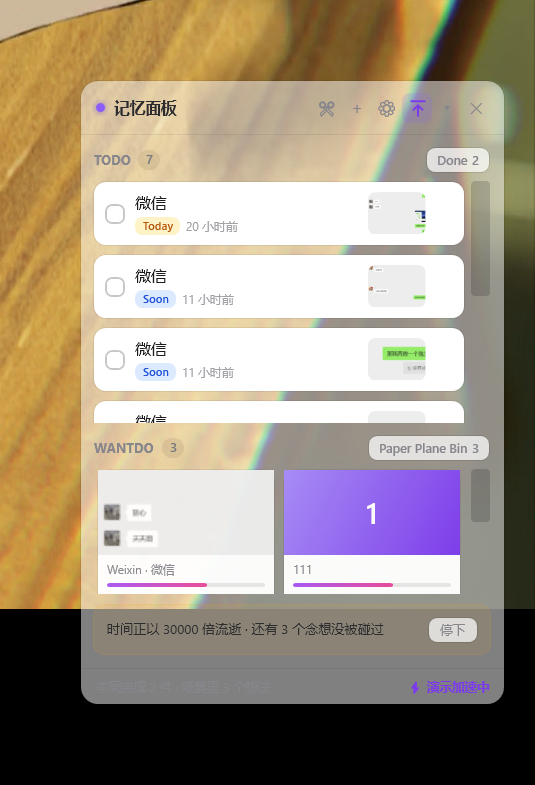
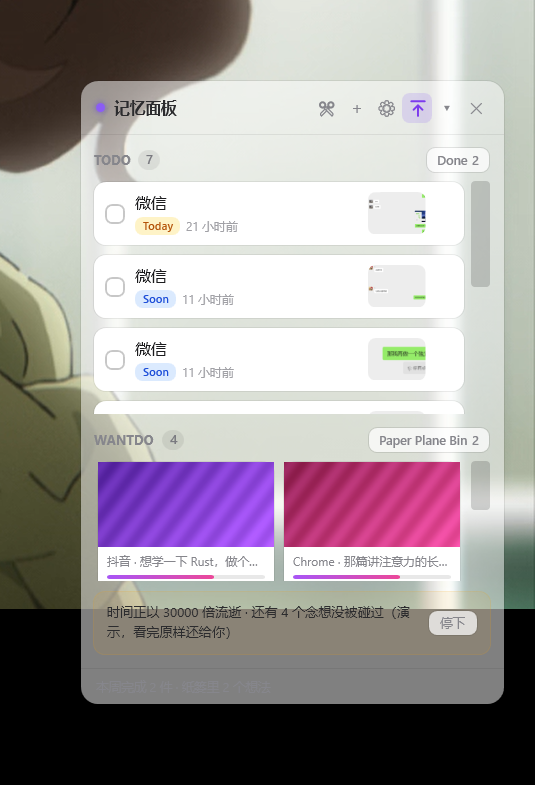
演示加速改成纯预览：看完原样还原；第一次点会替你把 WantDo 全都注意一遍
两件事：

1. **纯预览，零副作用。** 演示期间真的会进纸篓，但跑完（或中途「停下」）
   数据原样写回。
   还原不是逐条逆转 binCount / binStints 那些记账（漏一个就留疤），
   而是开演前把每条待褪色的条目**整个深拷贝一份**，结束时把变过的原样写回。

2. **第一次的小心思。** 第一次点会先把所有 active Wantdo 的生命复原
   （就当我都替你看过一遍了），标语「这次我帮你把 WantDo 全都注意了一遍噢~ 下不为例~」；
   以后不再复原生命，按原有生命值跑，标语「这次不会帮你了噢~」。
   两句都跟一句「希望梦想不再褪色，就好好注意它噢~」。
   用 settings.demoRunCount 记第几次。

   生命复原只动 lastTouchedAt，**不动 touchCount / viewCount** —— 那两个是
   「你真的看过它几次」的记录，替用户"注意一遍"不该往里面灌水，
   不然完成记录里会出现一看就是假的数字。

   备份点放在生命复原**之后** —— 复原是要留下的，还原不能把它也抹掉。

实测连跑两轮（4 条 active 念想）：

  原样 -> 第1轮后：4 条生命被复原成同一时刻；binCount 仍 0、binnedAt 仍 0、
                  touches 未变；原本就在纸篓那条完全没被碰
  第1轮后 -> 第2轮后：**逐字节完全一致**（第二轮没留任何痕迹）

  第1轮：t=30s 最淡 0.81 -> t=60s 最淡 0.23，约 63s 全部掉进纸篓后自动结束并还原

diff --git a/native/src/ViewModels.cs b/native/src/ViewModels.cs
@@ -740,11 +740,16 @@ namespace RemeberEr
 
         // ---------------- 演示加速 ----------------
         //
-        // 「试试让时间以 N 倍流逝」是一次**有始有终的演示**，不是个开关：
+        // 「试试让时间以 N 倍流逝」是一次**有始有终、而且不留痕迹**的演示：
         // 点一下开始，画面每秒重算一次（看得到磁贴真的在褪色），
-        // 等所有还在的 Wantdo 都掉进纸篓，就自动结束并留一句话。
+        // 等所有还在的 Wantdo 都掉进纸篓，自动结束、**把数据原样还给你**，留一句话。
+        //
+        // 还原的做法不是逐条逆转 binCount / binStints 这些记账（漏一个就留疤），
+        // 而是**开演前把每条待褪色的条目整个深拷贝一份，结束时原样写回**。
 
-        public const string DemoSlogan = "希望梦想不再褪色，就好好注意它噢~";
+        public const string DemoSloganMoral = "希望梦想不再褪色，就好好注意它噢~";
+        public const string DemoSloganFirst = "这次我帮你把 WantDo 全都注意了一遍噢~ 下不为例~";
+        public const string DemoSloganAgain = "这次不会帮你了噢~";
 
         /// <summary>演示正常跑完了（不是被手动停下的）。</summary>
         bool _demoFinished;
@@ -758,8 +763,19 @@ namespace RemeberEr
             }
         }
 
+        /// <summary>这一轮是不是「第一次」—— 第一次会顺手把所有 Wantdo 的生命复原。</summary>
+        bool _demoWasFirst;
+        public bool DemoWasFirst
+        {
+            get { return _demoWasFirst; }
+            set { Set(ref _demoWasFirst, value, "DemoWasFirst"); }
+        }
+
         /// <summary>开演的时候还剩几条念想 —— 用来判断「跑完了」。</summary>
         int _demoWantsAtStart;
+
+        /// <summary>演示开始前的条目快照（深拷贝），结束或手动停下时原样写回。</summary>
+        List<Dictionary<string, object>> _demoBackup;
 
         public bool ShowDemoBanner { get { return _demoOn || _demoFinished; } }
 
@@ -767,9 +783,14 @@ namespace RemeberEr
         {
             get
             {
-                if (_demoFinished) return DemoSlogan;
-                if (NDemoLeft <= 0) return string.Format("时间正以 {0} 倍流逝…", (int)Decay.DEMO_TIME_SCALE);
-                return string.Format("时间正以 {0} 倍流逝 · 还有 {1} 个念想没被碰过",
+                if (_demoFinished)
+                {
+                    var line = _demoWasFirst ? DemoSloganFirst : DemoSloganAgain;
+                    return line + "\n" + DemoSloganMoral;
+                }
+                if (NDemoLeft <= 0)
+                    return string.Format("时间正以 {0} 倍流逝…（演示，看完原样还给你）", (int)Decay.DEMO_TIME_SCALE);
+                return string.Format("时间正以 {0} 倍流逝 · 还有 {1} 个念想没被碰过（演示，看完原样还给你）",
                     (int)Decay.DEMO_TIME_SCALE, NDemoLeft);
             }
         }
@@ -785,7 +806,29 @@ namespace RemeberEr
         public void StartDemo()
         {
             _demoFinished = false;
+
+            // 第一次点：把所有还在的 Wantdo 生命复原（就当我都替你看过一遍了）
+            int runs = (int)J.Num(_store.Settings, "demoRunCount", 0);
+            _demoWasFirst = runs == 0;
+            _store.SetSetting("demoRunCount", (double)(runs + 1));
+            if (_demoWasFirst)
+            {
+                int n = _store.RefreshAllWantsLife();
+                Program.Log("  第一次演示：先把 " + n + " 条念想的生命复原（我帮你都注意了一遍）");
+            }
+
             _demoWantsAtStart = NWant;
+
+            // 备份放在「生命复原」之后 —— 复原是要留下的，还原不能把它也抹掉
+            _demoBackup = new List<Dictionary<string, object>>();
+            foreach (var o in _store.Items)
+            {
+                var it = J.Obj(o);
+                if (J.Str(it, "room", "") != "want") continue;
+                if (J.Str(it, "state", "") != "active") continue;
+                _demoBackup.Add((Dictionary<string, object>)Json.Parse(Json.Stringify(it)));
+            }
+
             // 记下起跑时刻：倍率只作用于**这一刻之后**流逝的时间，
             // 否则一条一小时前放下的念想会在点击瞬间就变成 3.4 年年龄，直接被清空。
             _store.SetSetting("demoStartedAt", (double)Store.RealNow());
@@ -793,34 +836,61 @@ namespace RemeberEr
             // 切回主视图 —— 站在设置页里是看不到磁贴在褪色的
             View = "main";
             Refresh();
-            Program.Log(string.Format("  演示加速开始：倍率 {0}，当前想褪色的有 {1} 条",
-                (int)Decay.DEMO_TIME_SCALE, _demoWantsAtStart));
+            Program.Log(string.Format("  演示加速开始：倍率 {0}，待褪色 {1} 条，第一次={2}",
+                (int)Decay.DEMO_TIME_SCALE, _demoWantsAtStart, _demoWasFirst));
             Raise("ShowDemoBanner"); Raise("DemoBannerText");
-            if (_demoWantsAtStart == 0)
-            {
-                // 一条都没有就没什么可看的，直接把话说清楚
-                FinishDemo();
-            }
+            if (_demoWantsAtStart == 0) FinishDemo();   // 一条都没有就没什么可看的
         }
 
         public void StopDemo()
         {
+            RollbackDemo();
             _store.SetSetting("demoFastDecay", false);
-            _store.SetSetting("demoStartedAt", 0.0);   // 回到真实时间，年龄照旧算
+            _store.SetSetting("demoStartedAt", 0.0);
             _demoFinished = false;
             Refresh();
-            Program.Log("  演示加速已停下");
+            Program.Log("  演示加速已停下，数据已还原");
             Raise("ShowDemoBanner"); Raise("DemoBannerText");
         }
 
         void FinishDemo()
         {
+            RollbackDemo();
             _store.SetSetting("demoFastDecay", false);
             _store.SetSetting("demoStartedAt", 0.0);
             _demoFinished = true;
             Refresh();
-            Program.Log("  演示加速跑完 -> 出标语");
+            Program.Log("  演示跑完，数据已还原 -> 标语：" + (_demoWasFirst ? DemoSloganFirst : DemoSloganAgain));
             Raise("ShowDemoBanner"); Raise("DemoBannerText");
+        }
+
+        /// <summary>
+        /// 把演示动过的条目原样写回。
+        /// 只写回**真的被改动过**的（state 或 lastTouchedAt 变了），
+        /// 免得演示什么都没发生也要重写一遍数据文件。
+        /// </summary>
+        void RollbackDemo()
+        {
+            if (_demoBackup == null) return;
+            var items = _store.Items;
+            int n = 0;
+            foreach (var saved in _demoBackup)
+            {
+                string id = J.Str(saved, "id", "");
+                for (int i = 0; i < items.Count; i++)
+                {
+                    var cur = J.Obj(items[i]);
+                    if (J.Str(cur, "id", "") != id) continue;
+                    bool changed =
+                        J.Str(cur, "state", "") != J.Str(saved, "state", "") ||
+                        Math.Abs(J.Num(cur, "lastTouchedAt", 0) - J.Num(saved, "lastTouchedAt", 0)) > 0.5;
+                    if (changed) { items[i] = saved; n++; }
+                    break;
+                }
+            }
+            _demoBackup = null;
+            if (n > 0) _store.Save();
+            Program.Log("  演示回滚：还原了 " + n + " 条");
         }
 
         public void DismissDemo()

diff --git a/native/src/PanelWindow.xaml.cs b/native/src/PanelWindow.xaml.cs
@@ -152,42 +152,80 @@ namespace RemeberEr
             else if (Program.Flow == "accel") ScheduleFlowAccel();
         }
 
+        void DumpWants(string tag)
+        {
+            var sb = new System.Text.StringBuilder();
+            foreach (var o in _store.Items)
+            {
+                var it = J.Obj(o);
+                if (J.Str(it, "room", "") != "want") continue;
+                string id = J.Str(it, "id", "");
+                if (id.Length > 8) id = id.Substring(0, 8);
+                sb.AppendLine(string.Format("{0}  {1,-7} last={2:0}  binCount={3}  binnedAt={4}  touches={5}",
+                    id, J.Str(it, "state", ""), J.Num(it, "lastTouchedAt", 0),
+                    J.Num(it, "binCount", 0), J.Num(it, "binnedAt", 0), J.Num(it, "touchCount", 0)));
+            }
+            File.WriteAllText(Path.Combine(Program.Root, ".guide", "wants-" + tag + ".txt"),
+                sb.ToString(), new System.Text.UTF8Encoding(false));
+            Program.Log("  want 快照 -> .guide\\wants-" + tag + ".txt");
+        }
+
         /// <summary>
-        /// 验收演示加速：每秒记一次「还剩几条念想 / 纸篓里有几条 / 透明度」，
-        /// 确认它是**慢慢褪色**而不是点下去一次性清空，并且跑完会出标语。
+        /// 验收演示加速：连跑两轮，确认
+        ///   1. 第一轮会把所有 Wantdo 的生命复原，第二轮不会
+        ///   2. 每轮跑完数据都**原样还原**（状态、binCount、binnedAt 一个都不许变）
+        ///   3. 标语按第一次 / 以后分两种
         /// </summary>
         void ScheduleFlowAccel()
         {
             var steps = new List<Tuple<int, Action>>();
             steps.Add(Tuple.Create<int, Action>(600, () =>
             {
-                Program.Log(string.Format("  开始前：Wantdo {0} 条，纸篓 {1} 条",
-                    _vm.NWant, _vm.NBin));
+                Program.Log(string.Format("  【原样】Wantdo {0} 条，纸篓 {1} 条", _vm.NWant, _vm.NBin));
+                DumpWants("原样");
                 Shot("accel-00");
                 _vm.StartDemo();
             }));
 
+            // 第一轮：边跑边记，确认是「慢慢褪色」而不是一次性清空
             int last = 0;
-            for (int sec = 5; sec <= 90; sec += 5)
+            for (int sec = 10; sec <= 70; sec += 10)
             {
-                int delay = (sec - last) * 1000;
-                last = sec;
-                int at = sec;
+                int delay = (sec - last) * 1000; last = sec; int at = sec;
                 steps.Add(Tuple.Create<int, Action>(delay, () =>
                 {
                     double minOp = 1.0;
                     foreach (var w in _vm.Wants) if (w.Opacity < minOp) minOp = w.Opacity;
-                    Program.Log(string.Format(
-                        "    t={0,2}s  念想 {1} 条（最淡 {2:0.00}）· 纸篓 {3} 条 · 演示中={4} 已完成={5}",
-                        at, _vm.NWant, minOp, _vm.NBin, _vm.DemoOn, _vm.DemoFinished));
+                    Program.Log(string.Format("    第1轮 t={0,2}s  念想 {1} 条（最淡 {2:0.00}）· 纸篓 {3} 条 · 完成={4}",
+                        at, _vm.NWant, minOp, _vm.NBin, _vm.DemoFinished));
                     if (at == 20) Shot("accel-20");
                     if (at == 40) Shot("accel-40");
                 }));
             }
-            steps.Add(Tuple.Create<int, Action>(400, () =>
+            steps.Add(Tuple.Create<int, Action>(500, () =>
             {
-                Program.Log("  横幅文字 = " + _vm.DemoBannerText);
+                Program.Log("  【第1轮结束】标语 = " + _vm.DemoBannerText.Replace("\n", " / "));
+                DumpWants("第1轮后");
                 Shot("accel-done");
+                _vm.DismissDemo();
+                _vm.StartDemo();
+            }));
+
+            // 第二轮
+            last = 0;
+            for (int sec = 10; sec <= 70; sec += 10)
+            {
+                int delay = (sec - last) * 1000; last = sec; int at = sec;
+                steps.Add(Tuple.Create<int, Action>(delay, () =>
+                {
+                    Program.Log(string.Format("    第2轮 t={0,2}s  念想 {1} 条 · 纸篓 {2} 条 · 完成={3}",
+                        at, _vm.NWant, _vm.NBin, _vm.DemoFinished));
+                }));
+            }
+            steps.Add(Tuple.Create<int, Action>(500, () =>
+            {
+                Program.Log("  【第2轮结束】标语 = " + _vm.DemoBannerText.Replace("\n", " / "));
+                DumpWants("第2轮后");
                 Program.Log("  演示加速流程结束");
                 Close();
             }));

diff --git a/native/src/Store.cs b/native/src/Store.cs
@@ -309,6 +309,28 @@ namespace RemeberEr
             return it;
         }
 
+        /// <summary>
+        /// 把所有还在的 Wantdo 生命复原（lastTouchedAt = 现在）。
+        ///
+        /// 只动生命值，**不动 touchCount / viewCount** —— 那两个是「你真的看过它几次」的
+        /// 记录，替用户"注意一遍"不该往里面灌水，不然完成记录里会出现一看就是假的数字。
+        /// </summary>
+        public int RefreshAllWantsLife()
+        {
+            double now = Now();
+            int n = 0;
+            foreach (var o in Items)
+            {
+                var it = J.Obj(o);
+                if (J.Str(it, "room", "") != "want") continue;
+                if (J.Str(it, "state", "") != "active") continue;
+                it["lastTouchedAt"] = now;
+                n++;
+            }
+            if (n > 0) Save();
+            return n;
+        }
+
         public Dictionary<string, object> Done(string id, bool hasReflection, string reflection, bool file)
         {
             var it = Get(id);

diff --git a/README.md b/README.md
@@ -146,7 +146,7 @@ powershell -File native\build.ps1                 # 只编译
 | **快速模式** | 开 / 关 | **默认关**。打开后框选松手即定，不用再去点右下角的 ✓ |
 | **开机自启** | 开 / 关 | **默认关**。写 `HKCU\...\CurrentVersion\Run`，**不需要管理员**。开关状态直接读注册表真实值 —— 手动删掉或把 exe 挪了位置，开关会自动变回「关」，不会骗你说已开启 |
 | **隐藏折叠按钮** | 开 / 关 | **默认关**。把顶栏的 ▾ 收起来（有侧边收起了，折叠基本多余）。**已经折叠着的时候它还会留着** —— 不然你就展不开了 |
-| **演示加速** | 按钮（不是开关） | 在设置页，不在顶栏。点「试试让时间以 30000 倍流逝~」开始一次约一分钟的演示：Wantdo 在眼前变淡、逐个掉进纸篓，跑完留一句「希望梦想不再褪色，就好好注意它噢~」。中途可以「停下」 |
+| **演示加速** | 按钮（不是开关） | 在设置页，不在顶栏。点「试试让时间以 30000 倍流逝~」开始一次约一分钟的演示：Wantdo 在眼前变淡、逐个掉进纸篓，跑完**数据原样还给你**。**第一次**会顺手把所有 Wantdo 的生命复原（「这次我帮你把 WantDo 全都注意了一遍噢~ 下不为例~」），以后就不帮了（「这次不会帮你了噢~」）。中途可以「停下」，同样会还原 |
 | 面板透明度 | 30% – 100% | **默认 80%**。只影响面板底色；**条目卡片始终不透明**，保证任何桌面背景下都读得清 |
 | Wantdo 保护期 | 1 – 60 天 | 默认 7 天，这期间完全不衰减 |
 | 多久后放手 | 2 – 180 天 | 默认 21 天，超过就滑进 Paper Plane Bin（随时能捞回来） |
